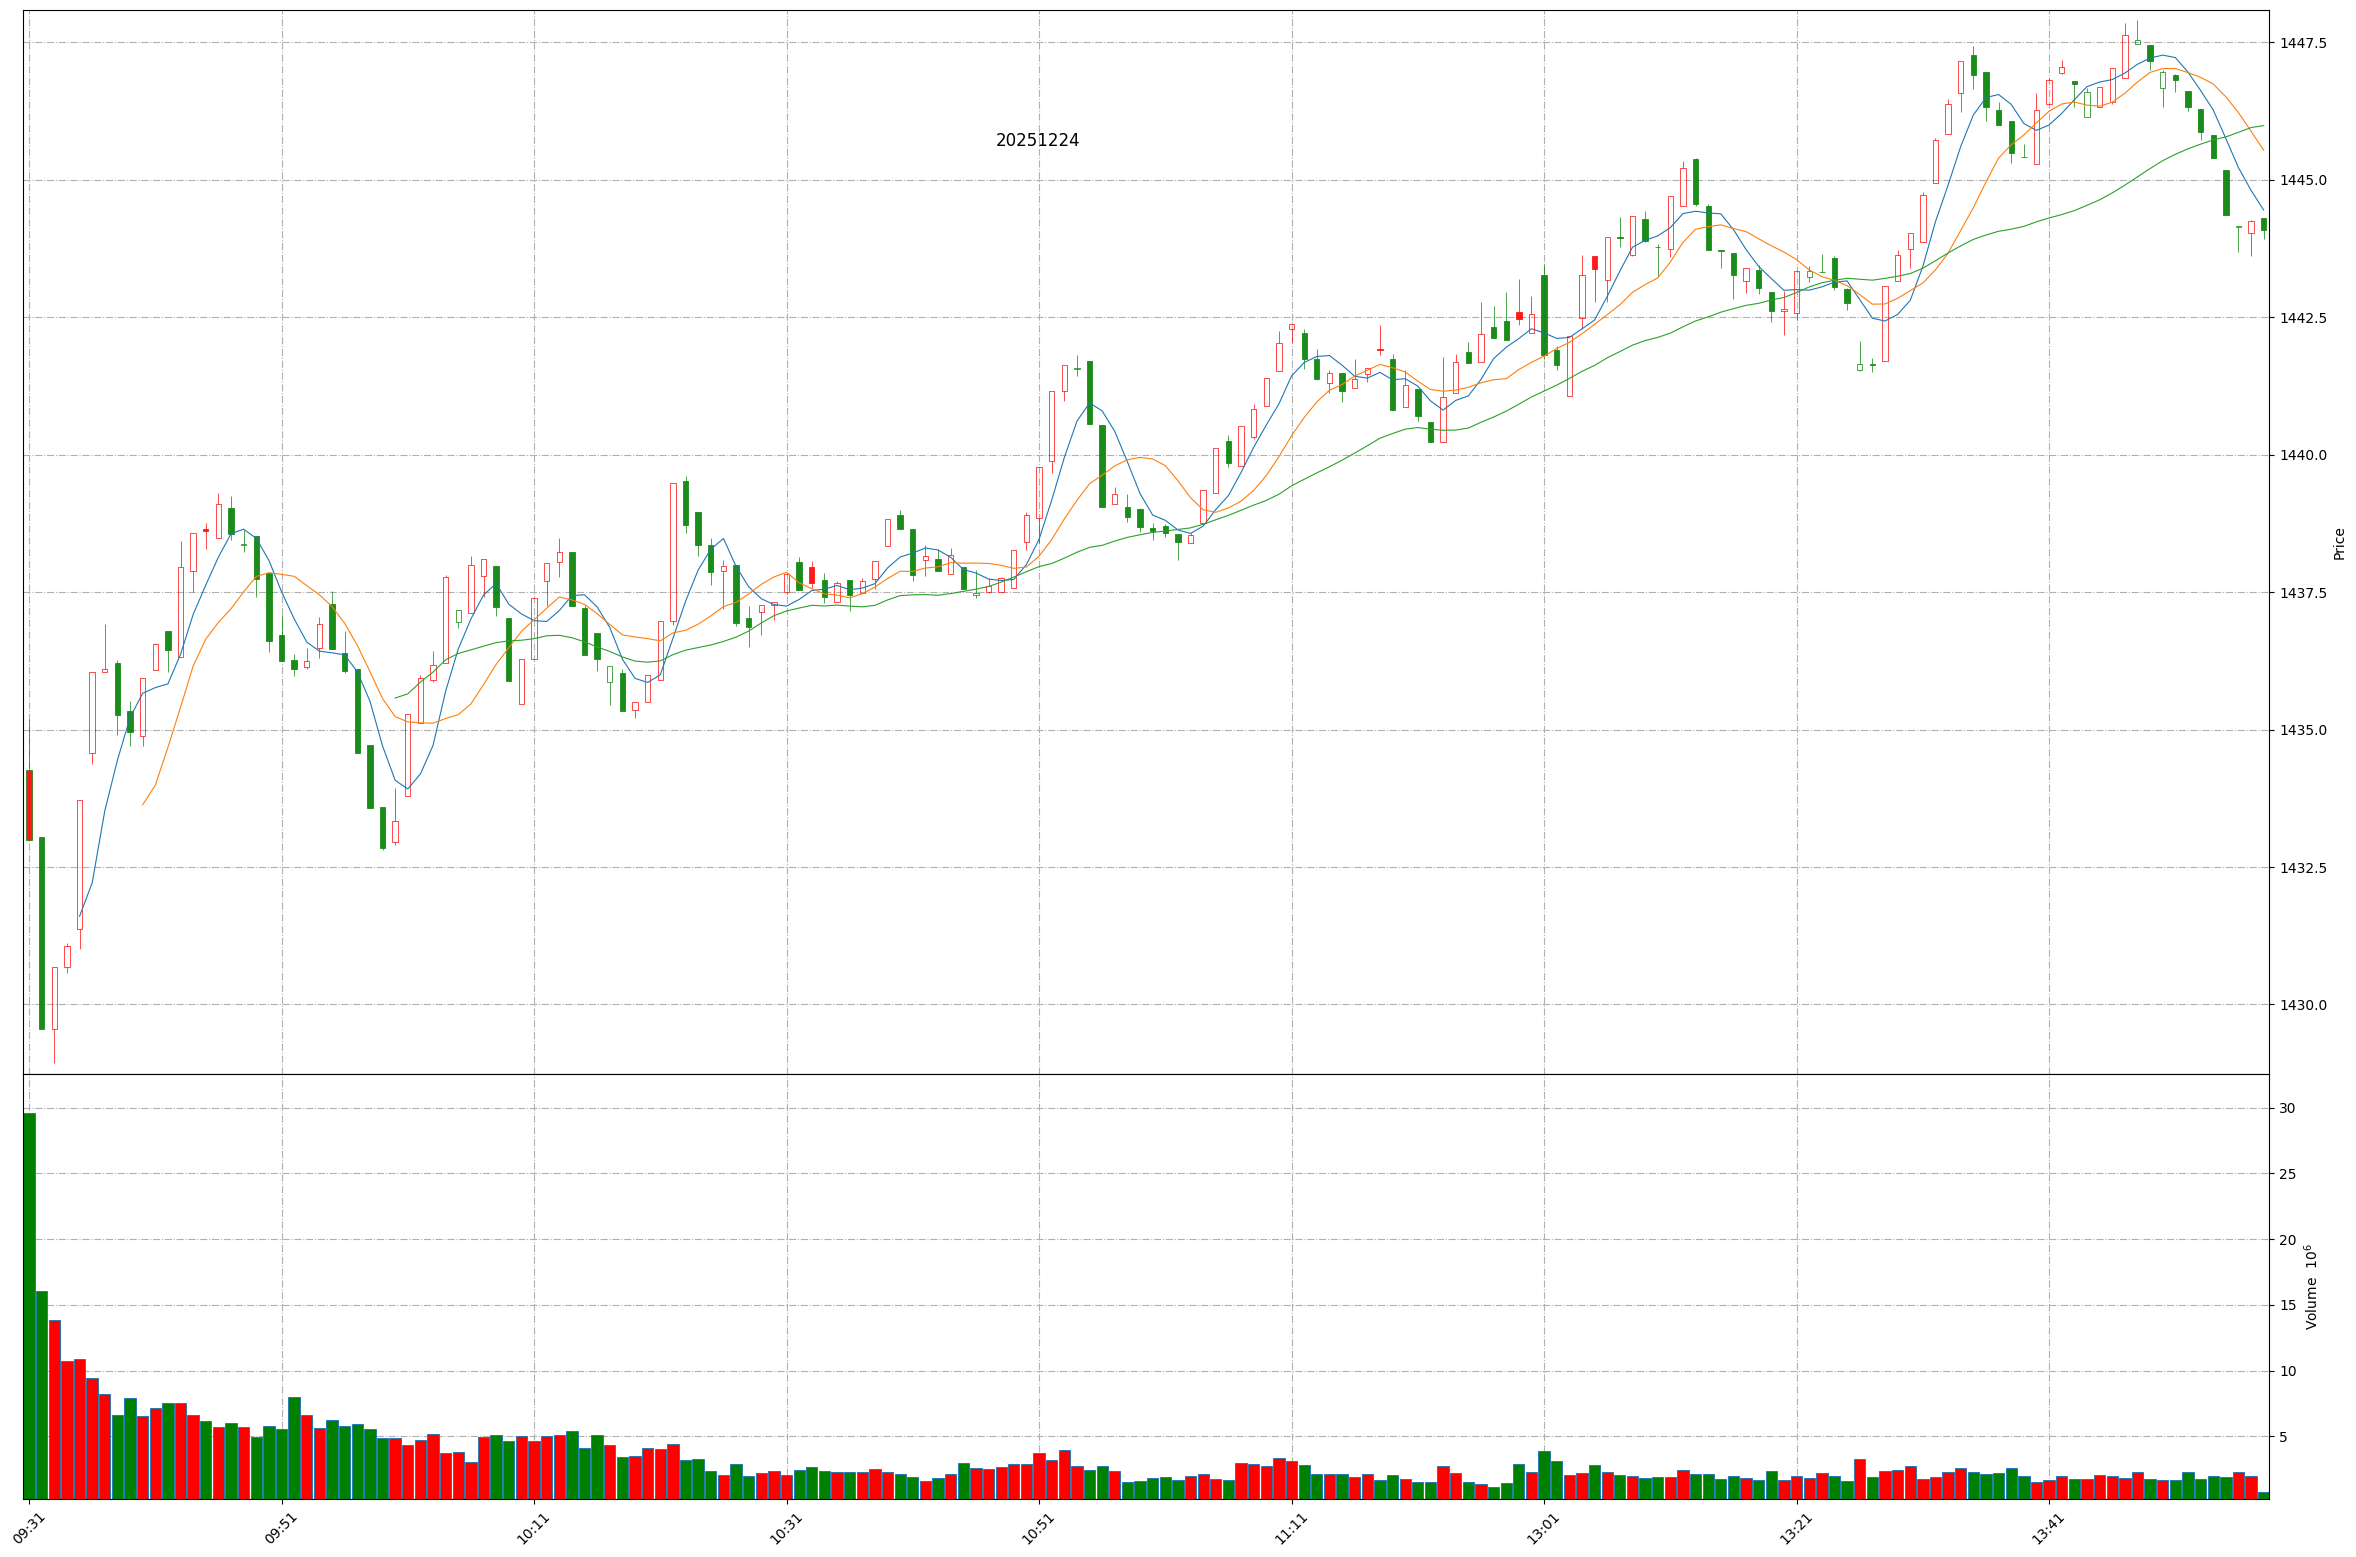
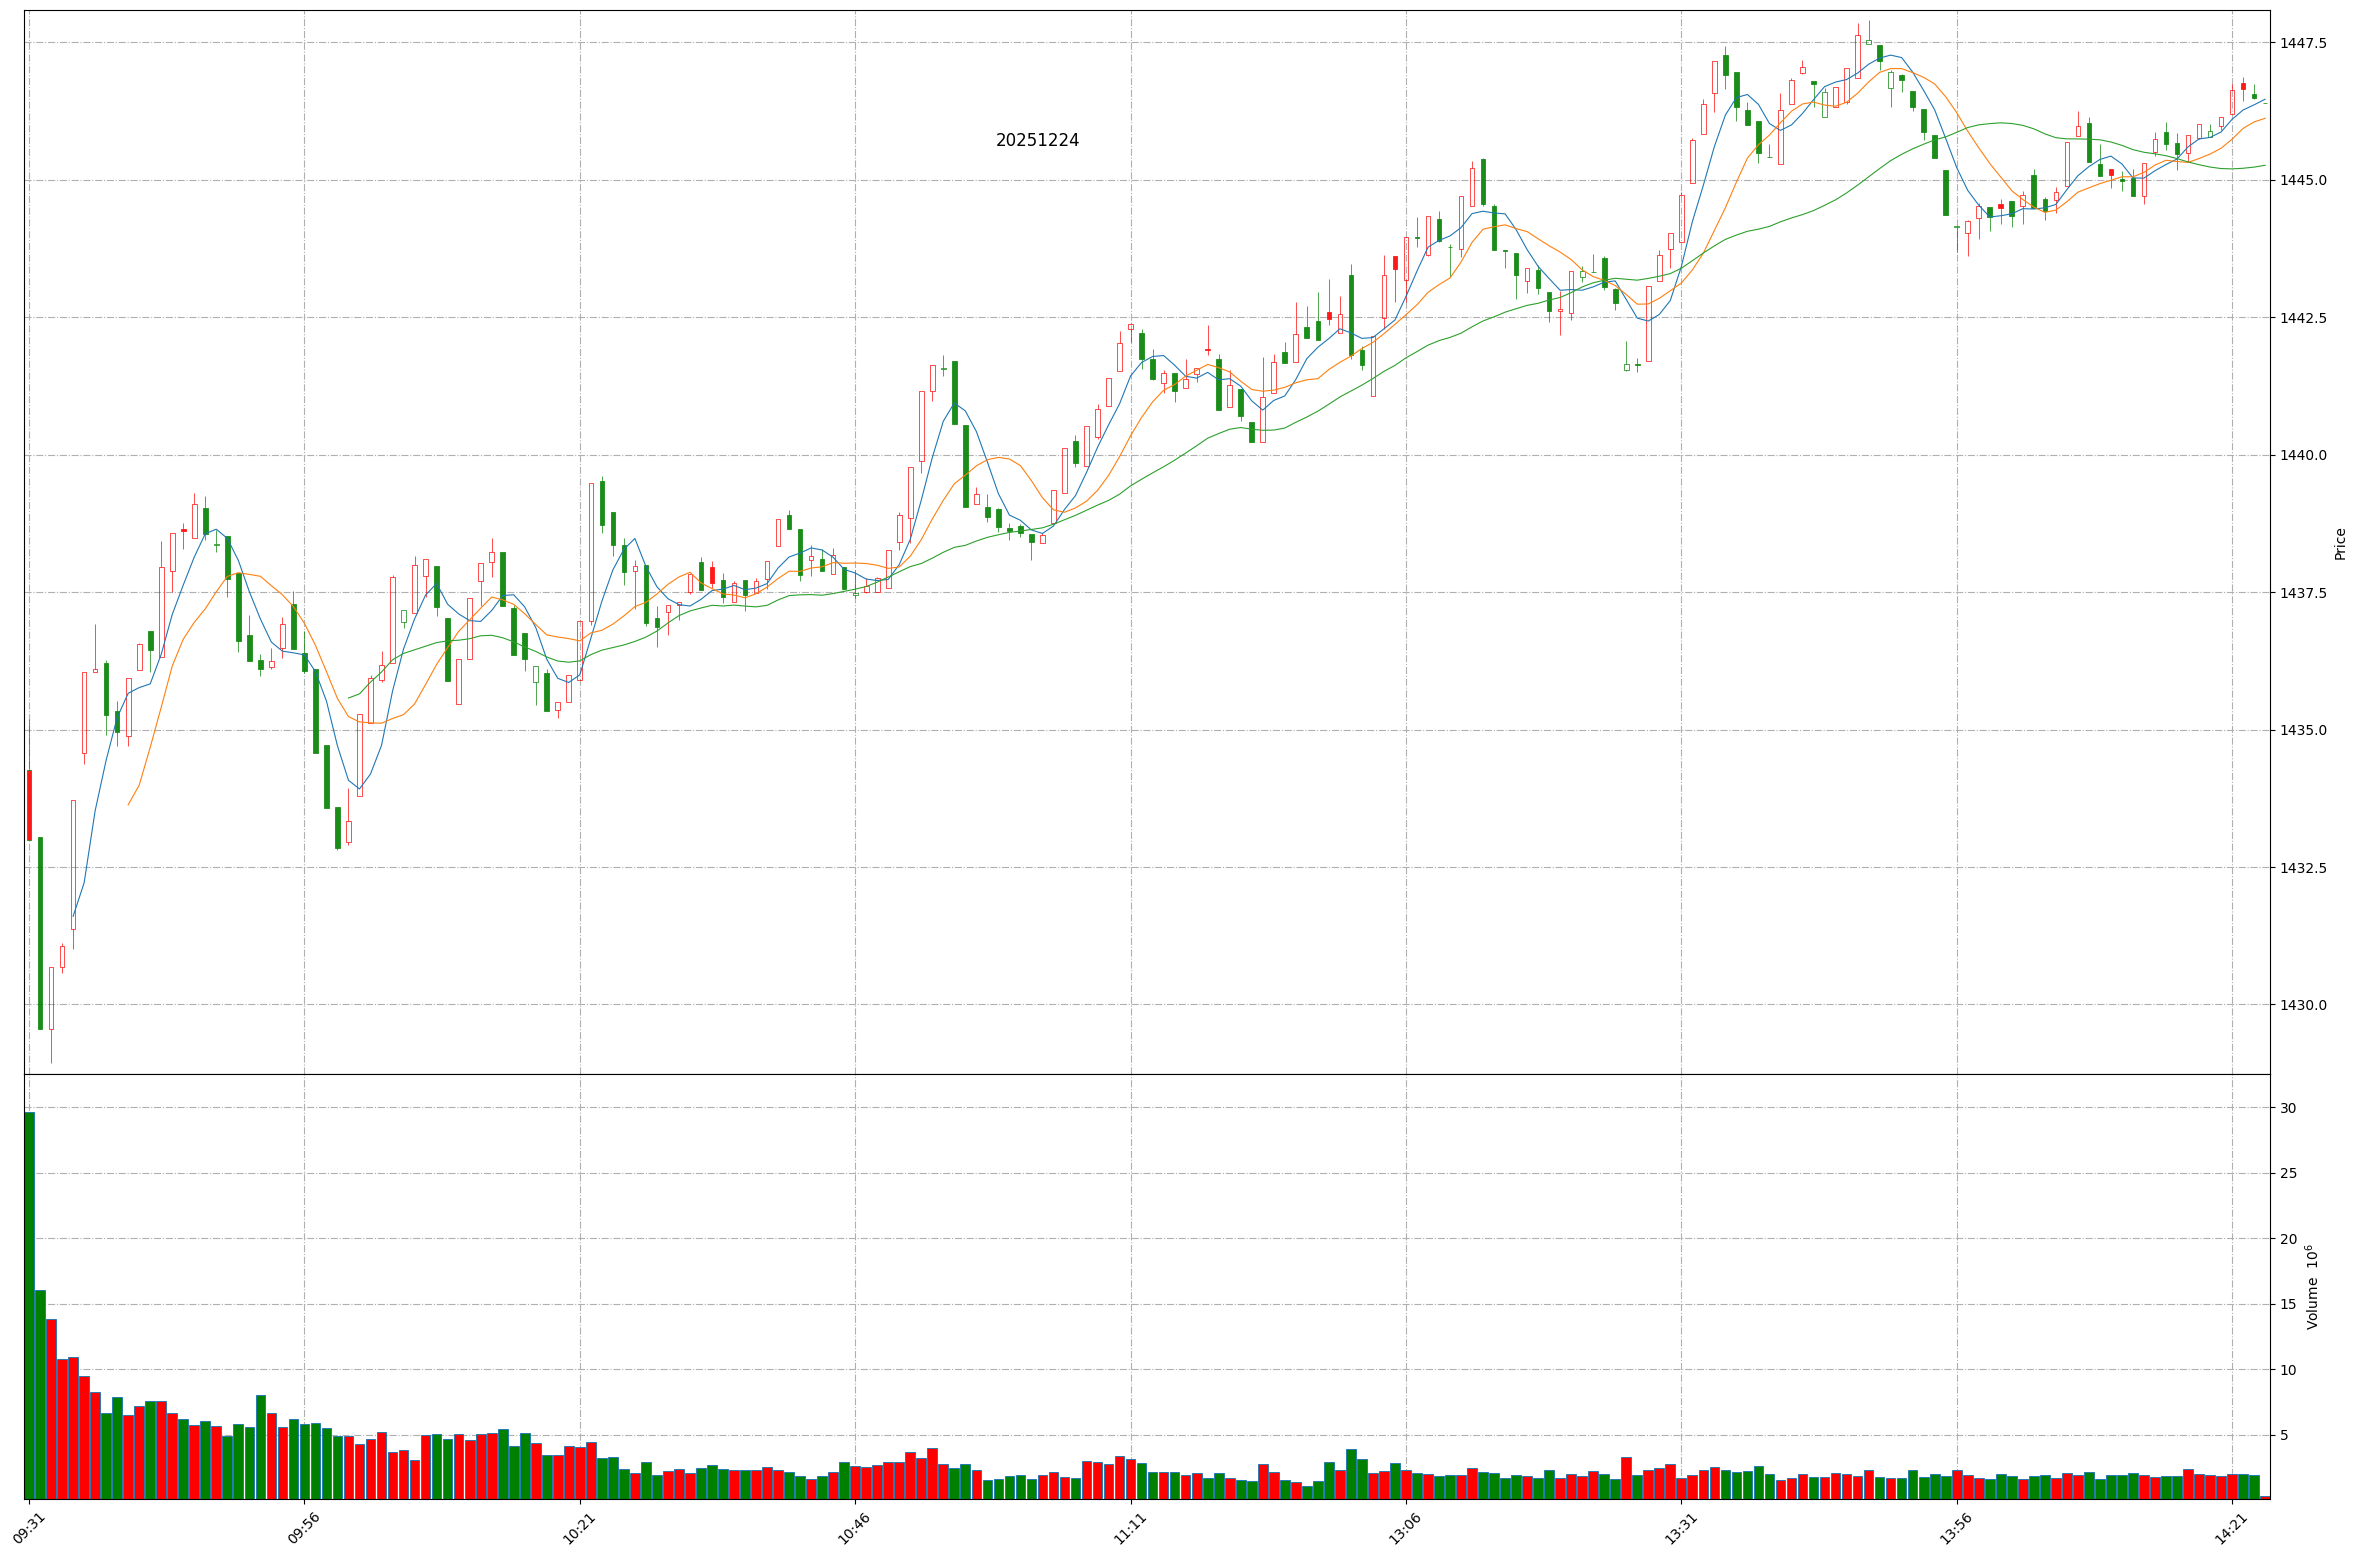
Github action update at 2025-12-24 14:23:25.

diff --git a/README.md b/README.md
@@ -1,11 +1,11 @@
 
 # Daily-A-share-market-quotes 每日 A 股指数（5min 更新）- 20251224
 
-### 上证指数 20251224 13:57
+### 上证指数 20251224 14:23
 ![](./fig/2025/12/20251224-sh000001.png)
 
-### 深证成指 20251224 13:57
+### 深证成指 20251224 14:23
 ![](./fig/2025/12/20251224-sz399001.png)
 
-### 北证50 20251224 13:57
+### 北证50 20251224 14:23
 ![](./fig/2025/12/20251224-bj899050.png)
